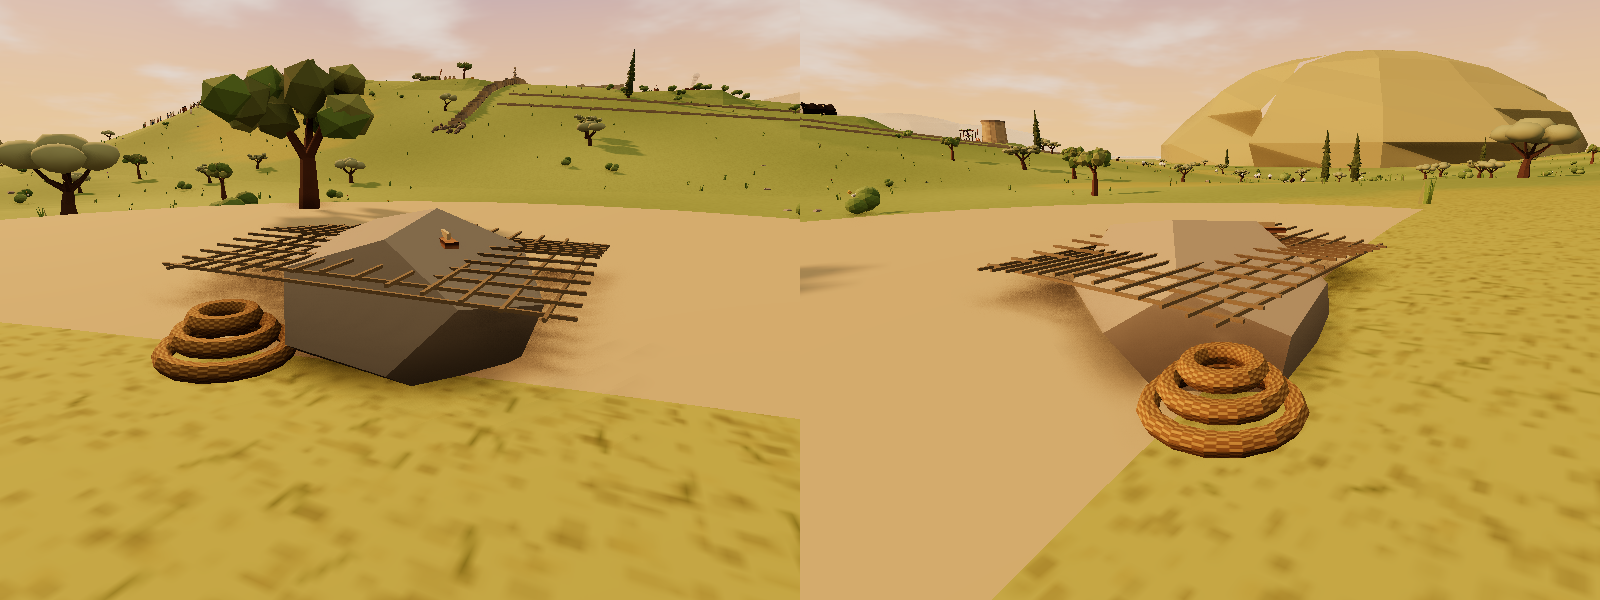
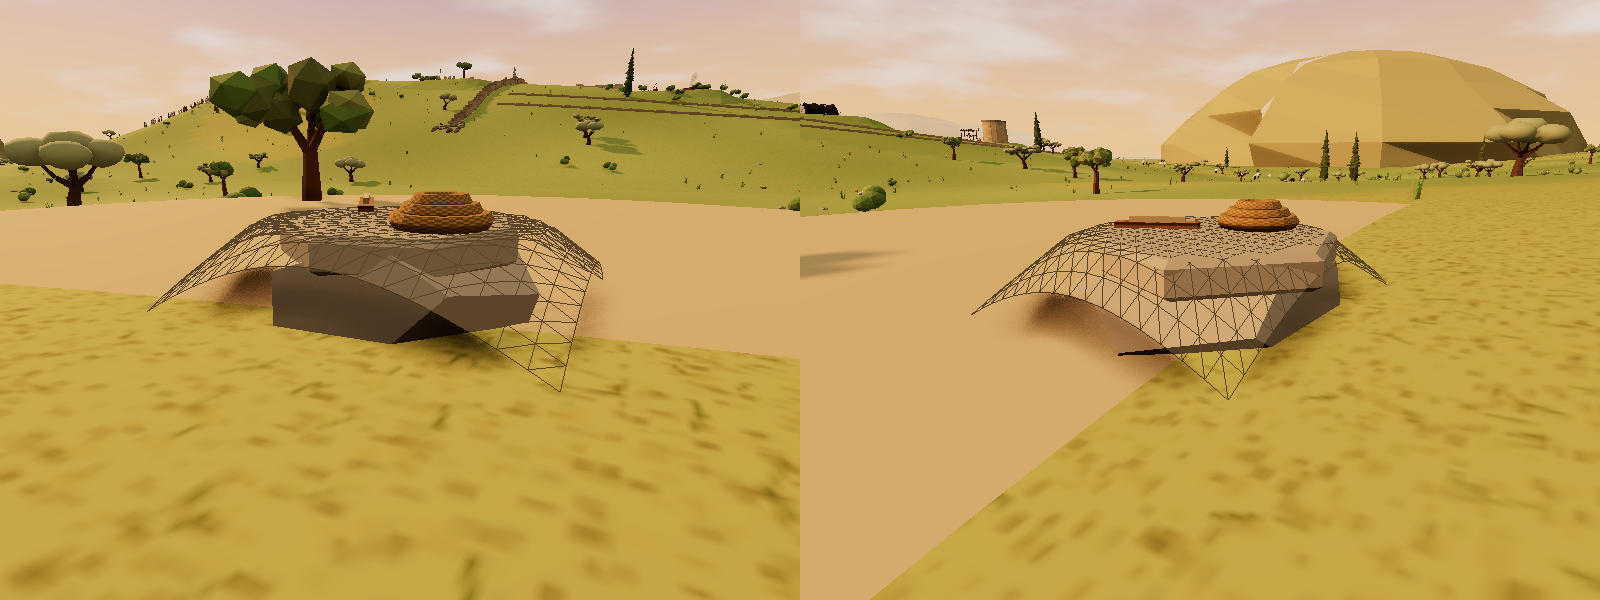
som-ltm: model workshop batch b round 3 rebuild
Claude-Session: https://claude.ai/code/session_011GTaBjBmrRYMxR8CbFEKPF

diff --git a/som-ltm/world/models.js b/som-ltm/world/models.js
@@ -96,73 +96,85 @@ def('som-plough', 'Wooden plough (ard) with an iron share', g => {
   const stilt = bx(g, .1, 1.1, .1, mWood, 0, .1, .05, 0, -.3); bx(g, .5, .08, .08, mWoodLt, 0, 1.15, -.25, 0, -.3);   // the handle upright and its grip
   return 1.3; });
 def('som-feeding-niche', 'Roof pillar with a feeding niche of hay', g => {
-  for (let row = 0; row < 9; row++) for (const [x, z, w, d] of [[0, -.3, .9, .3], [0, .3, .9, .3], [-.3, 0, .3, .3], [.3, 0, .3, .3]]) { if (row >= 2 && row <= 4 && z > .2) continue; bx(g, w * R(.97, 1.03), .28, d, rnd() > .5 ? mRock : mRockDk, x, row * .3, z, R(-.03, .03)); }
-  bx(g, .7, .08, .5, mRockDk, 0, .58, .15); bx(g, .7, .08, .5, mRockDk, 0, 1.5, .15);
-  bx(g, .6, .25, .4, mWood, 0, .66, .18); for (let i = 0; i < 26; i++) bx(g, R(.3, .6), .025, .03, mStraw, R(-.22, .22), .9 + R(0, .3), R(.05, .45), R(0, 3), 0, R(-.5, .5));
-  bx(g, 1.2, .25, 1.0, mWoodDk, 0, 2.7, 0);
-  return 2.95; });
+  const tones = [mRock, mRockDk, MM('somRockWarm', '#b8a68a')];
+  for (let row = 0; row < 9; row++) for (const [x, z, w, d] of [[0, -.32, .95, .32], [0, .32, .95, .32], [-.32, 0, .32, .32], [.32, 0, .32, .32]]) { if (row >= 2 && row <= 4 && z > .2) continue; bx(g, w * R(.97, 1.03), .28, d, tones[(rnd() * 3) | 0], x, row * .3, z, R(-.03, .03)); }
+  for (const s of [-1, 1]) bx(g, .14, .95, .36, mRockDk, s * .4, .6, .32);   // the niche's cut sides
+  bx(g, .8, .1, .5, mRockDk, 0, .56, .2); bx(g, .8, .12, .5, mRockDk, 0, 1.5, .2);
+  bx(g, .66, .28, .42, mWood, 0, .66, .2); for (let i = 0; i < 34; i++) bx(g, R(.3, .6), .025, .03, mStraw, R(-.25, .25), .9 + R(0, .32), R(.05, .45), R(0, 3), 0, R(-.5, .5));   // the manger in the niche, heaped with hay
+  bx(g, 3.2, .3, .45, mWoodDk, 0, 2.7, 0); for (const s of [-1, 1]) bx(g, .9, .1, .9, mRockDk, 0, 2.62, 0);   // the roof beam running across on a capstone
+  return 3.0; });
 
 // ---- the Bee Bank (5:31–35) ----
 def('som-hive-pipes', 'Stack of clay hive pipes', g => {
-  const lid = MM('somHiveLid', '#d8c4a0', TEX.plaster);
-  for (let row = 0; row < 3; row++) for (let k = 0; k < 4 - row; k++) { const x = (k - (3 - row) / 2) * .36, y = .2 + row * .33; cy(g, .16, .16, 1.4, 12, row % 2 ? mClay : mClayDk, x, y, 0, Math.PI / 2);
-    cy(g, .165, .165, .05, 12, lid, x, y, .71, Math.PI / 2); add(new THREE.CircleGeometry(.035, 8), mDark, x, y - .06, .74, g); }
-  bx(g, 1.8, .08, 1.5, mRock, 0, -.04, 0); for (let i = 0; i < 7; i++) add(new THREE.SphereGeometry(.014, 4, 3), mDark, R(-.6, .6), R(.15, .9), R(.76, .95), g);
-  return 1.2; });
+  const lid = MM('somHiveLid', '#cdb894', TEX.plaster), pipeA = MM('somPipeA', '#a8714c', TEX.pot), pipeB = MM('somPipeB', '#946446', TEX.pot);
+  for (let i = 0; i < 6; i++) boulder(g, .35, mRock, -1 + i * .4, -.1, R(-.3, .3), .5);   // a low stone bed
+  for (let row = 0; row < 3; row++) for (let k = 0; k < 4 - row; k++) { const x = (k - (3 - row) / 2) * .36 + R(-.02, .02), y = .32 + row * .33; cy(g, .16 * R(.95, 1.05), .16, 1.4, 12, (row + k) % 2 ? pipeA : pipeB, x, y, R(-.05, .05), Math.PI / 2);
+    const cap = add(new THREE.SphereGeometry(.16, 10, 6, 0, 6.3, 0, 1.2), lid, x, y, .7, g); cap.rotation.x = Math.PI / 2; cap.scale.set(1, .4, 1); add(new THREE.CircleGeometry(.03, 8), mDark, x, y - .07, .77, g); }   // domed mud caps, each with a small hole
+  for (let i = 0; i < 16; i++) { const b = add(new THREE.SphereGeometry(.025, 5, 4), MM('somBee', '#3a2a10'), R(-.7, .7), R(.2, 1.3), R(.75, 1.1), g); b.scale.x = 1.6; }   // bees about the holes
+  return 1.35; });
 def('som-smoker-pot', 'Beekeeper\'s smoker pot', g => {
-  boulder(g, .35, mRock, 0, 0, 0, .7); lathe(g, [[0, 0], [.2, .02], [.28, .2], [.27, .42], [.2, .52], [.21, .56], [.17, .56], [.16, .5]], mClay, 0, .42, 0); cy(g, .17, .17, .02, 12, mDark, 0, .96, 0);
-  cy(g, .06, .1, .5, 10, mClay, .3, .78, 0, 0, 0, -1.0); cy(g, .07, .07, .03, 10, mDark, .52, .93, 0, 0, 0, -1.0);
-  for (let k = 0; k < 5; k++) add(new THREE.SphereGeometry(.05 + k * .035, 8, 6), MM('somSmokeT', '#ece8e0', null, { transparent: true, opacity: .3, depthWrite: false }), .58 + k * .1, .98 + k * .16, 0, g);
-  return 1.0; });
+  slab(g, .45, .25, mRock, 0, 0, 0, 6); lathe(g, [[0, 0], [.2, .02], [.28, .2], [.27, .42], [.2, .52], [.21, .56], [.17, .56], [.16, .5]], mClay, 0, .3, 0); cy(g, .17, .17, .02, 12, MM('somEmber', '#5a2a18'), 0, .84, 0);
+  cy(g, .06, .1, .5, 10, mClay, .3, .66, 0, 0, 0, -1.0);
+  for (let k = 0; k < 9; k++) add(new THREE.SphereGeometry(.04 + k * .025, 8, 6), MM('somSmokeT2', '#ece8e0', null, { transparent: true, opacity: .38, depthWrite: false }), .56 + k * .07, .86 + k * .13, R(-.03, .03), g);   // smoke rising from the spout
+  return .95; });
 def('som-comb-tray', 'Tray of golden honeycomb', g => {
-  bx(g, 1.2, .55, .9, mRock, 0, 0, 0); bx(g, 1.05, .06, .75, mWoodLt, 0, .55, 0); for (const s of [-.5, .5]) bx(g, 1.05, .1, .05, mWoodLt, 0, .58, s * .72);
-  for (let k = 0; k < 4; k++) { const w = R(.18, .26), x = -.36 + k * .24; bx(g, w, R(.07, .1), .55, mComb, x, .61, R(-.03, .03), R(-.15, .15)); for (let c = 0; c < 5; c++) add(new THREE.CircleGeometry(.03, 6), mHoney, x + R(-.07, .07), .7, -.22 + c * .11, g).rotation.x = -Math.PI / 2; }
-  for (let i = 0; i < 6; i++) { const dr = add(new THREE.SphereGeometry(.03, 6, 5), mHoney, R(-.5, .5), .52, R(.36, .4), g); dr.scale.y = 2.2; }
-  return .75; });
+  boulder(g, .6, mRock, 0, -.15, 0, .55); bx(g, 1.05, .06, .75, mWoodLt, 0, .42, 0); for (const s of [-.5, .5]) bx(g, 1.05, .1, .05, mWoodLt, 0, .45, s * .72);
+  const cell = MM('somCombCells', '#e4ac3c', TEX.wicker);
+  for (let k = 0; k < 4; k++) { const x = -.36 + k * .24, sh = new THREE.Shape(); sh.moveTo(-.1, 0); sh.lineTo(.1, 0); sh.lineTo(.12, .3); sh.quadraticCurveTo(0, .4, -.12, .3); sh.lineTo(-.1, 0); const comb = add(new THREE.ExtrudeGeometry(sh, { depth: .45, bevelEnabled: false }), cell, x, .48, -.22, g); comb.rotation.z = R(-.2, .2); }   // four slabs of comb, rounded tops, cells showing
+  for (let i = 0; i < 8; i++) { const dr = add(new THREE.SphereGeometry(.03, 6, 5), mHoney, R(-.5, .5), .4, R(.36, .4), g); dr.scale.y = 2.4; }
+  return .9; });
 
 // ---- the Fisherman's Court (7:6–10) ----
 def('som-salting-vat', 'Fish-salting vat', g => {
-  lathe(g, [[0, 0], [.75, 0], [.82, .1], [.8, .75], [.86, .82], [.7, .82], [.68, .2], [0, .2]], mPlaster, 0, 0, 0, 20); cy(g, .68, .68, .04, 20, mBrine, 0, .62, 0);
+  lathe(g, [[0, 0], [.75, 0], [.82, .1], [.8, .75], [.86, .82], [.7, .82], [.68, .2], [0, .2]], mPlaster, 0, 0, 0, 20); cy(g, .68, .68, .04, 20, MM('somBrine2', '#7fa8a0', null, { roughness: .1, metalness: .1 }), 0, .62, 0);
   add(new THREE.TorusGeometry(.72, .05, 5, 24), mSalt, 0, .78, 0, g).rotation.x = Math.PI / 2;
-  for (let i = 0; i < 7; i++) { const a = i / 7 * 6.28, f = add(new THREE.CapsuleGeometry(.08, .38, 4, 8), mFishM, Math.cos(a) * .36, .67, Math.sin(a) * .36, g); f.rotation.set(Math.PI / 2, 0, a + 1.57); }
-  const lid = new THREE.Group(); lid.position.set(1.05, .55, .2); lid.rotation.set(0, .4, .35); g.add(lid); cy(lid, .55, .55, .06, 18, mWoodLt, 0, 0, 0, Math.PI / 2); for (const s of [-.22, .22]) bx(lid, .08, 1.0, .06, mWood, s, -.5, .05);
+  for (let i = 0; i < 6; i++) { const z = -.4 + i * .16, f = add(new THREE.CapsuleGeometry(.07, .5, 4, 8), mFishM, R(-.05, .05), .66, z, g); f.rotation.set(0, 0, Math.PI / 2); add(new THREE.ConeGeometry(.08, .14, 4), mFishM, .4, .66, z, g).rotation.z = -Math.PI / 2; }   // fish laid side by side, heads one way
+  for (let i = 0; i < 18; i++) add(new THREE.DodecahedronGeometry(.04, 0), mSalt, R(-.55, .55), .68, R(-.5, .5), g);
+  const lid = new THREE.Group(); lid.position.set(.93, .48, 0); lid.rotation.set(0, 0, .3); g.add(lid); cy(lid, .55, .55, .06, 18, mWoodLt, 0, 0, 0, 0, 0, Math.PI / 2); for (const s of [-.22, .22]) bx(lid, .06, .08, 1.0, mWood, .04, -.04, s);   // the lid leaning against the vat
   return .9; });
 def('som-mending-stone', 'Mending stone with a net spread over it', g => {
-  boulder(g, .7, mRock, 0, 0, 0, .6);
-  const net = MM('somNetM', '#8a7a5a'); for (let i = -6; i <= 6; i++) { bx(g, 1.6, .012, .012, net, 0, .5 - Math.abs(i) * .01, i * .1); bx(g, .012, .012, 1.3, net, i * .12, .5 - Math.abs(i) * .01, 0); }
-  for (let k = 0; k < 3; k++) add(new THREE.TorusGeometry(.26 - k * .07, .04, 6, 16), mRope, -.6, .08 + k * .07, .5, g).rotation.x = Math.PI / 2;
-  bx(g, .05, .025, .4, mWoodLt, .2, .54, .1, .6); bx(g, .012, .03, .3, mCord, .2, .56, .1, .6);
-  return .75; });
+  boulder(g, .75, mRock, 0, -.2, 0, .55); slab(g, .7, .12, mRock, 0, .3, 0, 7);   // a flat-topped stone
+  const geo = new THREE.PlaneGeometry(1.9, 1.6, 18, 16); geo.rotateX(-Math.PI / 2); const p = geo.attributes.position; for (let i = 0; i < p.count; i++) { const x = p.getX(i), z = p.getZ(i), d = Math.hypot(x / .75, z / .7); p.setY(i, d < 1 ? .45 : .45 - (d - 1) * .55); }
+  add(geo, new THREE.MeshBasicMaterial({ color: '#5a4a32', wireframe: true }), 0, 0, 0, g);   // the net draped over it, sagging at the edges
+  for (let k = 0; k < 3; k++) add(new THREE.TorusGeometry(.2 - k * .05, .04, 6, 16), mRope, .3, .5 + k * .04, .2, g).rotation.x = Math.PI / 2;   // a coil of cord on top
+  const nd = bx(g, .08, .03, .45, mWoodLt, -.25, .5, -.1, .5); bx(g, .03, .04, .3, mCord, -.25, .52, -.1, .5);   // a big wooden net needle wound with twine
+  return .7; });
 def('som-court-entrance', 'Entrance of a basalt courtyard', g => {
   const bas = MM('somBasaltM2', '#7c766e'), basDk = MM('somBasaltM3', '#625c56');
-  for (const s of [-1, 1]) { for (let row = 0; row < 6; row++) bx(g, .55, .3, .55, row % 2 ? bas : basDk, s * .85, row * .31, 0, R(-.04, .04));
-    for (let row = 0; row < 5; row++) for (let k = 0; k < 4; k++) bx(g, .42, .28, .45, rnd() > .5 ? bas : basDk, s * (1.35 + k * .44 + (row % 2) * .2), row * .3, 0, R(-.05, .05)); }
-  bx(g, 2.4, .32, .6, basDk, 0, 1.86, 0); bx(g, 1.2, .03, .7, MM('somWorn', '#b8a070'), 0, .01, .3);
-  return 2.2; });
+  for (const s of [-1, 1]) { for (let row = 0; row < 6; row++) bx(g, .78, .3, .7, row % 2 ? bas : basDk, s * .9, row * .31, 0, R(-.03, .03));   // thick built posts
+    for (let row = 0; row < 4; row++) for (let k = 0; k < 4; k++) bx(g, R(.45, .6), .3, .45, rnd() > .5 ? bas : basDk, s * (1.55 + k * .5), row * .31, 0); bx(g, .55, .25, .5, basDk, s * 3.3, 1.2, 0); }   // coursed walls, capped at the ends
+  bx(g, 2.6, .45, .8, basDk, 0, 1.86, 0); bx(g, 1.1, .03, .8, MM('somWorn', '#b8a070'), 0, .01, .3);   // a heavy lintel
+  return 2.3; });
 
 // ---- the Ridge Road (5:41–45) ----
 def('som-culvert', 'Culvert stones over a gully', g => {
-  const earth = MM('somEarthBank', '#a8905e'); for (const s of [-1, 1]) bx(g, 1.4, .7, 2.4, earth, s * 1.15, -.15, 0, 0, 0, -s * .18);
-  bx(g, .9, .02, 3.2, MM('somGullyBed', '#7a6a48'), 0, -.02, 0); for (let i = 0; i < 6; i++) boulder(g, R(.08, .14), mRockDk, R(-.3, .3), 0, R(-1.4, 1.4), .6);
-  for (const s of [-1, 1]) for (let row = 0; row < 2; row++) for (let k = 0; k < 3; k++) bx(g, .35, .26, .42, row ? mRock : mRockDk, s * .58, row * .27, (k - 1) * .46, R(-.05, .05));
-  for (let k = -1; k <= 1; k++) bx(g, 1.6, .16, .48, mRock, 0, .54, k * .5, R(-.04, .04));
+  const earth = MM('somEarthBank', '#a8905e'), road = MM('somTrack', '#b8a07a');
+  for (const s of [-1, 1]) { const sh = new THREE.Shape(); sh.moveTo(0, 0); sh.lineTo(1.6, 0); sh.lineTo(1.6, .2); sh.lineTo(.2, .62); sh.lineTo(0, .62); const emb = add(new THREE.ExtrudeGeometry(sh, { depth: 1.5, bevelEnabled: false }), earth, s * .5, 0, -.75, g); emb.scale.x = s;
+    bx(g, 1.5, .02, 1.5, road, s * 1.25, .45, 0, 0, 0, -s * .28); }   // the road embankment ramping down each side
+  bx(g, .9, .02, 4, MM('somGullyBed', '#7a6a48'), 0, -.02, 0); for (let i = 0; i < 8; i++) boulder(g, R(.08, .14), mRockDk, R(-.3, .3), 0, R(-1.8, 1.8), .6);   // the gully bed running out both sides
+  for (const s of [-1, 1]) for (let row = 0; row < 2; row++) for (let k = 0; k < 3; k++) bx(g, .32, .29, .48, row ? mRock : mRockDk, s * .58, row * .3, (k - 1) * .5, R(-.05, .05));   // built abutments
+  for (let k = -1; k <= 1; k++) bx(g, 1.5, .14, .48, MM('somSlabGrey', '#9a9286'), 0, .6, k * .5, R(-.04, .04));   // three grey stone slabs spanning the gully
   return .75; });
 def('som-amphora-buried', 'Old amphora half-buried by the road', g => {
-  const earth = MM('somEarthM', '#9a7e56'); const mound = add(new THREE.SphereGeometry(.9, 12, 6, 0, 6.3, 0, 1.57), earth, -.1, -.05, 0, g); mound.scale.set(1.2, .35, 1);
-  const am = new THREE.Group(); am.position.set(.1, .05, 0); am.rotation.z = .75; g.add(am);
+  const earth = MM('somEarthM', '#9a7e56');
+  const am = new THREE.Group(); am.position.set(.1, -.25, 0); am.rotation.z = .75; g.add(am);
   lathe(am, [[0, 0], [.08, .02], [.22, .3], [.3, .7], [.28, 1.0], [.16, 1.2], [.1, 1.25], [.1, 1.5], [.14, 1.55], [.12, 1.58], [.08, 1.56]], mClay, 0, 0, 0, 16);
-  add(new THREE.TorusGeometry(.12, .025, 6, 14), mClay, 0, 1.56, 0, am).rotation.x = Math.PI / 2; for (const s of [-1, 1]) { const h = add(new THREE.TorusGeometry(.16, .035, 6, 12, Math.PI), mClay, s * .12, 1.3, 0, am); h.rotation.set(0, Math.PI / 2, s > 0 ? -.4 : .4); }
+  add(new THREE.TorusGeometry(.12, .025, 6, 14), mClay, 0, 1.56, 0, am).rotation.x = Math.PI / 2; for (const s of [-1, 1]) { const h = add(new THREE.TorusGeometry(.18, .045, 6, 12, Math.PI), MM('somClayDk2', '#a85e36', TEX.pot), s * .12, 1.3, 0, am); h.rotation.set(0, Math.PI / 2, s > 0 ? -.4 : .4); }
+  for (let i = 0; i < 22; i++) { const a = R(0, 6.3), d = R(.1, .8); boulder(g, R(.12, .25), i % 3 ? earth : mRockDk, .35 + Math.cos(a) * d * .7, -.05, Math.sin(a) * d, .45); }   // earth heaped round and over its foot
   return .9; });
 def('som-broken-cart', 'Cart with a broken wheel, propped on stones', g => {
-  bx(g, 1.4, .1, 2.2, mWoodLt, 0, .62, 0, 0, 0, .12); for (const s of [-1, 1]) bx(g, .08, .3, 2.2, mWood, s * .68, .7, 0, 0, 0, .12);
-  for (const s of [-1, 1]) bx(g, .07, .07, 1.6, mWood, s * .3, .6, 1.8, 0, .25); cy(g, .06, .06, 1.7, 6, mWoodDk, 0, .5, 0, 0, 0, Math.PI / 2);
-  const wheel = (gg, x, y, z, rx, ry, rz, broken) => { const w = new THREE.Group(); w.position.set(x, y, z); w.rotation.set(rx, ry, rz); gg.add(w); add(new THREE.TorusGeometry(.5, .05, 6, 18, broken ? 4.6 : 6.3), mWood, 0, 0, 0, w); cy(w, .1, .1, .14, 10, mWoodDk, 0, 0, 0, Math.PI / 2);
-    for (let k = 0; k < (broken ? 4 : 8); k++) { const sp = bx(w, .035, .5, .035, mWoodDk, 0, 0, 0, 0, 0, k / 8 * 6.28); sp.position.set(Math.sin(k / 8 * 6.28) * -.25, Math.cos(k / 8 * 6.28) * .25 - .25, 0); } };
-  wheel(g, .84, .55, 0, 0, Math.PI / 2, 0, false);
-  for (let k = 0; k < 3; k++) boulder(g, .26, mRockDk, -.75, k * .22, R(-.15, .15), .8);
-  wheel(g, -1.6, .06, 1.0, -Math.PI / 2, 0, 0, true);
+  const tilt = .12; bx(g, 1.4, .1, 2.2, mWoodLt, 0, .62, 0, 0, 0, tilt); for (const s of [-1, 1]) bx(g, .08, .3, 2.2, mWood, s * .68, .7 + s * .08, 0, 0, 0, tilt);
+  for (const s of [-1, 1]) bx(g, .08, .08, 1.7, mWood, s * .3, .55, 1.85, 0, .12);   // the shafts, fixed under the front of the bed
+  cy(g, .06, .06, 1.7, 6, mWoodDk, 0, .5, 0, 0, 0, Math.PI / 2);
+  const wheel = (gg, x, y, z, rx, ry, rz, n) => { const w = new THREE.Group(); w.position.set(x, y, z); w.rotation.set(rx, ry, rz); gg.add(w); add(new THREE.TorusGeometry(.5, .06, 6, 20), mWood, 0, 0, 0, w); cy(w, .1, .1, .14, 10, mWoodDk, 0, 0, 0, Math.PI / 2);
+    for (let k = 0; k < n; k++) { const sp = bx(w, .04, .46, .04, mWoodDk, 0, 0, 0, 0, 0, k / 8 * 6.28); sp.position.set(-Math.sin(k / 8 * 6.28) * .23, Math.cos(k / 8 * 6.28) * .23 - .23, 0); } return w; };
+  wheel(g, .84, .55, 0, 0, Math.PI / 2, 0, 8);
+  for (let k = 0; k < 4; k++) boulder(g, .24, mRockDk, -.75, k * .17, (k % 2) * .2 - .1, .8);   // stones piled under the bare axle end
+  wheel(g, -1.65, .06, 1.0, -Math.PI / 2, 0, 0, 5);   // the fallen wheel, three spokes broken out
   return 1.2; });
 def('som-resting-stone', 'Resting stone at the fork of the road', g => {
-  slab(g, .95, .42, mRock, 0, 0, 0, 7, .3); slab(g, .82, .05, mLime, 0, .52, 0, 7, .5);
-  const tr = MM('somTrack', '#b8a07a'); bx(g, .9, .03, 4.4, tr, 0, .025, 2.6); bx(g, .9, .03, 3.6, tr, -1.1, .025, -1.7, .5); bx(g, .9, .03, 3.6, tr, 1.1, .025, -1.7, -.5);
-  return .6; });
+  const rk = MM('somRestRock', '#b0a690'); const sh = new THREE.Shape(); [[1.0, 0], [.6, .55], [-.3, .62], [-.95, .2], [-.85, -.4], [-.1, -.6], [.75, -.45]].forEach(([x, z], i) => i ? sh.lineTo(x, z) : sh.moveTo(x, z));
+  const geo = new THREE.ExtrudeGeometry(sh, { depth: .45, bevelEnabled: true, bevelThickness: .1, bevelSize: .12, bevelSegments: 2 }); geo.rotateX(-Math.PI / 2); add(geo, rk, 0, 0, 0, g);   // a wide, low, rough flat-topped stone
+  const worn = add(new THREE.CircleGeometry(1.7, 10), MM('somTrack', '#b8a07a'), 0, .01, 0, g); worn.rotation.x = -Math.PI / 2;   // the worn ground where travellers stop
+  for (let i = 0; i < 4; i++) boulder(g, R(.1, .18), mRockDk, R(-1.3, 1.3), 0, R(-1.2, 1.2), .6);
+  return .65; });
